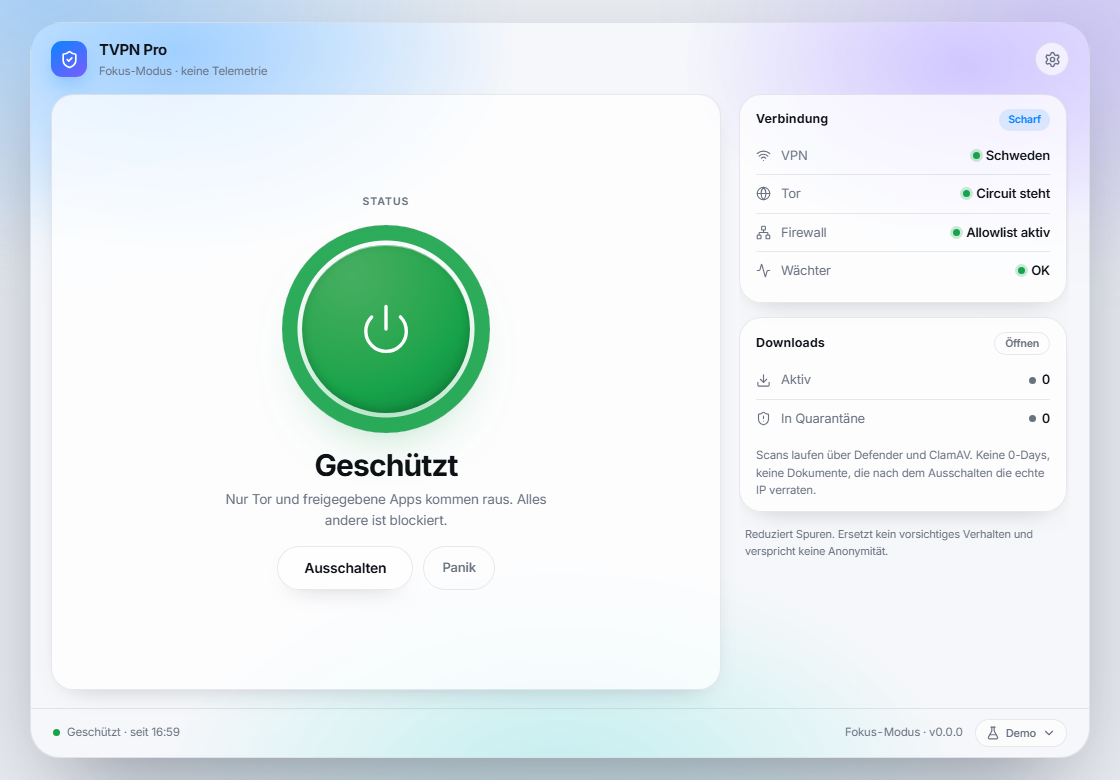
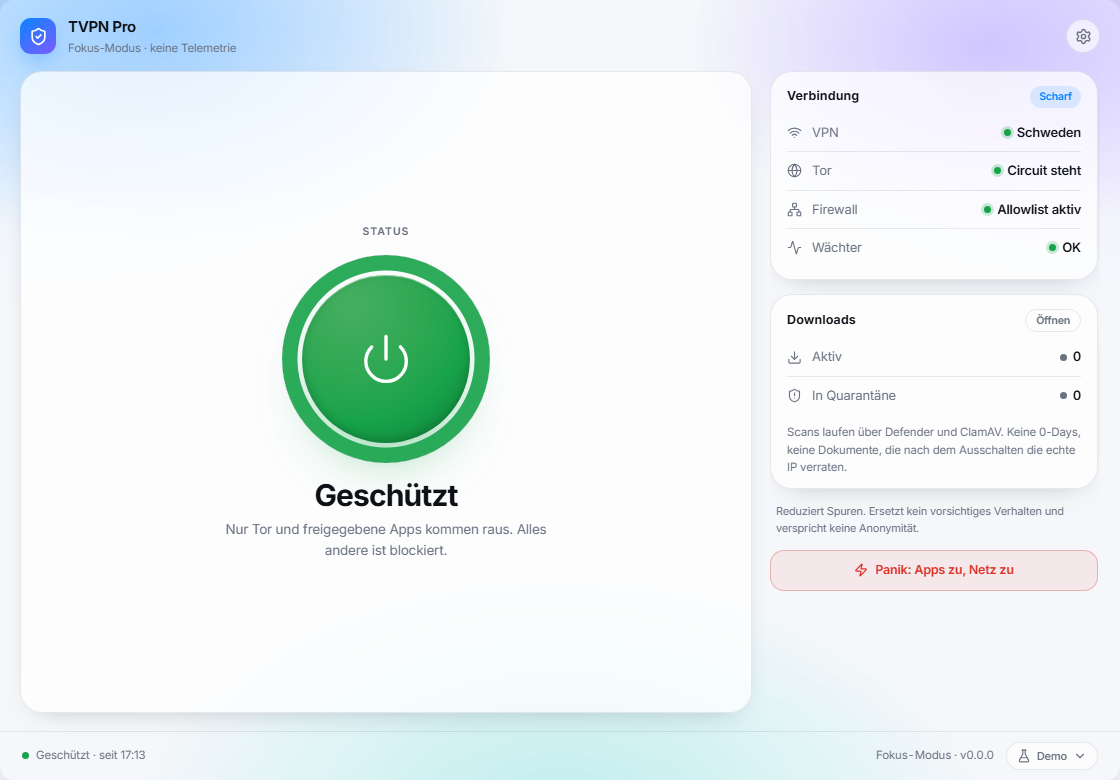
docs: refresh screenshots for the new chrome
Screenshots and the E2E report now match the one-button layout.

diff --git a/docs/reports/e2e-download.md b/docs/reports/e2e-download.md
@@ -6,7 +6,7 @@ Stand: 21. November 2026. Test: `ui/tests/e2e/downloads.spec.ts`. Ausführen mit
 
 | Teil | Real oder Mock | Prüfung |
 |---|---|---|
-| Schutz ein/aus, Zustände, Banner | Mock (kein Dienst, kein Netz) | Klick auf „Einschalten" führt zu „Geschützt"; „Ausschalten" öffnet die Sitzungs-Zusammenfassung |
+| Schutz ein/aus, Zustände, Banner | Mock (kein Dienst, kein Netz) | Klick auf den Power-Knopf führt zu „Geschützt"; erneuter Klick öffnet die Sitzungs-Zusammenfassung |
 | Download-Liste, URL-Prüfung, Fortschritt, Urteil | Mock | HTTPS-Pflicht, Port 443, keine IP-Literale, keine lokalen Namen; Eintrag erreicht „Sauber" |
 | Sitzungs-Zusammenfassung | Mock, aber aus der Download-Liste berechnet | Zähler „Sauber" ist 1, nicht hartkodiert |
 | Aufräumen in der App | Mock | „Liste leeren" hinterlässt den leeren Zustand |
